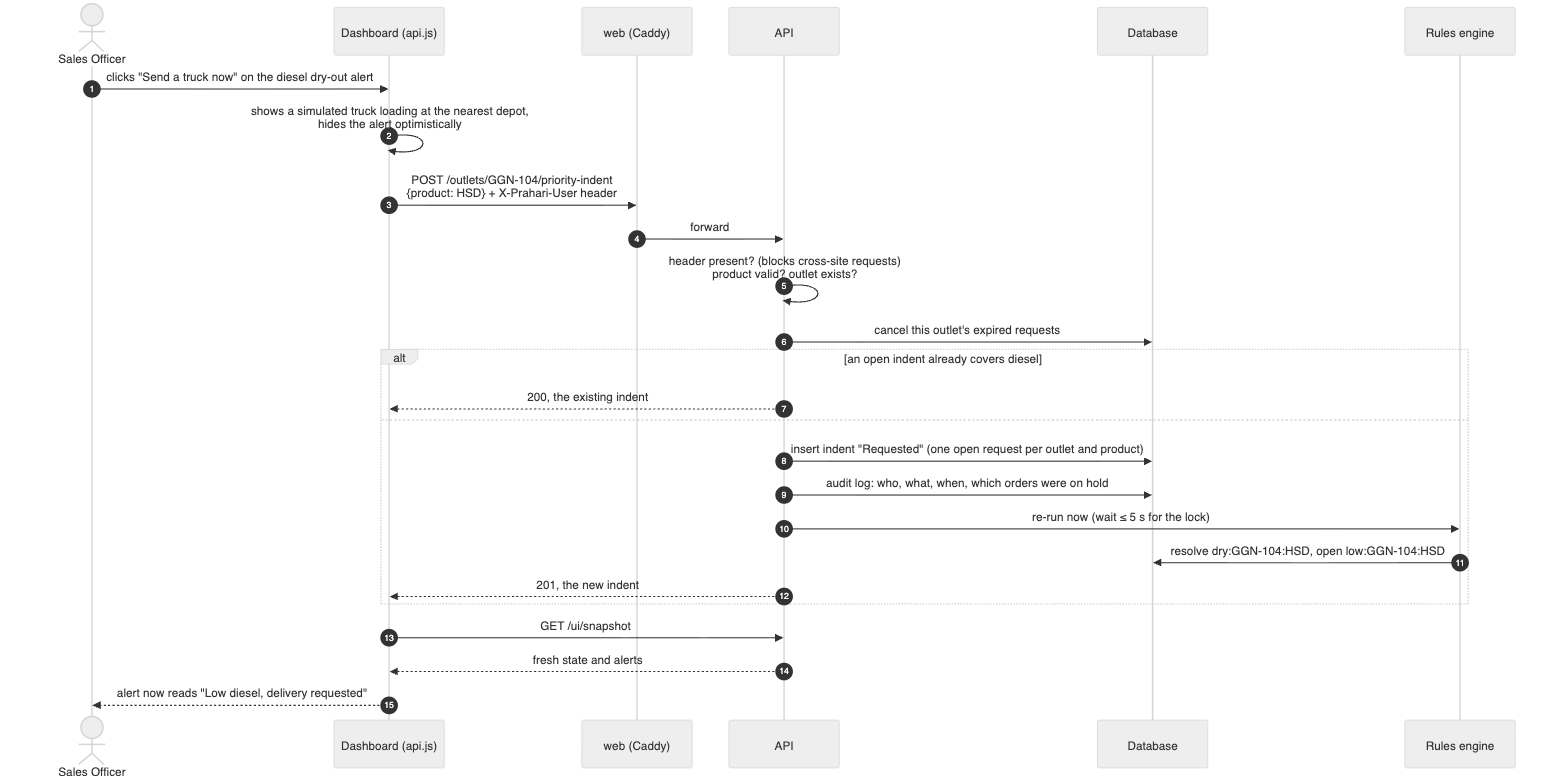
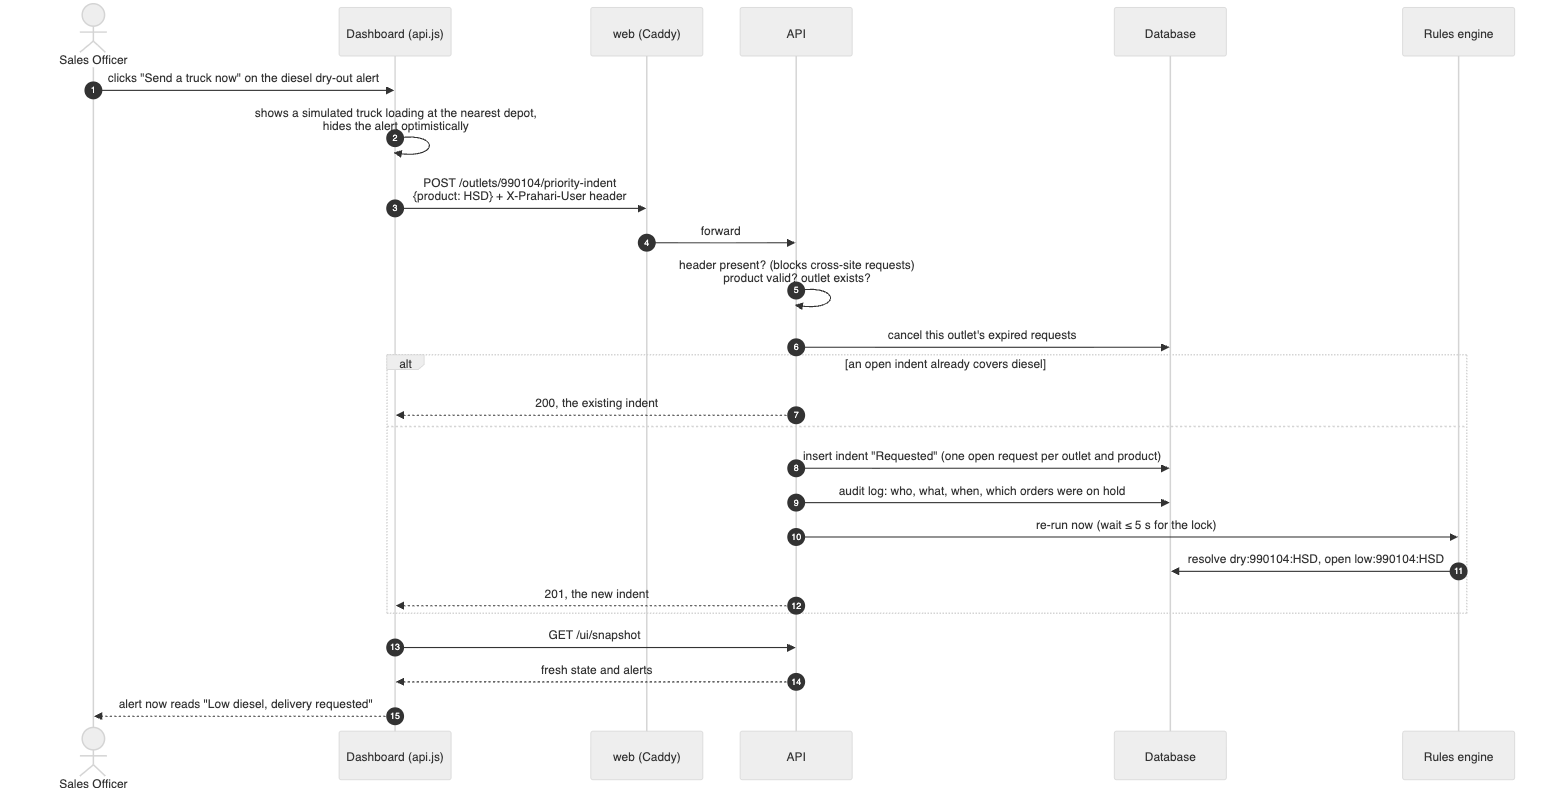
docs: RO codes, class of market and the RSA hierarchy
Vocabulary table in the backend README, a convention in CLAUDE.md, demo
links and storylines use RO codes, and the data-model and send-a-truck
diagrams are re-rendered.

diff --git a/backend/README.md b/backend/README.md
@@ -89,7 +89,19 @@ milestone.
 | `prahari.api` | FastAPI app, routers, response models |
 | `prahari.samples.generator` | Consistent synthetic month of source files |
 | `prahari.feed` | Demo automation feed (talks to the API over HTTP only) |
-| `prahari.domain` | Pure logic: tank calibration, business days, products |
+| `prahari.domain` | Pure logic: tank calibration, business days, products, RO codes and class of market |
+
+### Vocabulary (as in the oil companies' own systems)
+
+| Term | Meaning in Prahari |
+| --- | --- |
+| **RO code** | Every outlet's 6-digit code, the key in every file and in the API (`/outlets/990104`). A SAP customer code can be stored too, but nothing matches on it |
+| **State Office → Divisional Office → Retail Sales Area (RSA)** | The sales hierarchy. A Sales Officer looks after one RSA; Prahari's "sales area" is an RSA. "SO" means State Office, so the Sales Officer role is always written in full |
+| **Class of market** | A-Urban, B-Urban, C-Urban, D1-Highway, D2-Highway, E-Rural (any spelling such as `d1 highway` is accepted). Highway/Urban/Rural is derived from it |
+| **Products** | Brand-neutral codes: MS, HSD, XP (premium 95), P100, PD (premium diesel), E85, E100, CNG and CBG (sold by kg). Oil-company labels such as `MS-R`, `XP95`, `XP100` and `XG` are accepted in imports and mapped to these |
+
+The demo's RO codes are in the **9901xx** range, kept apart from real outlet codes so a synthetic
+alert can never point at a real outlet.
 
 ### The sample data
 
@@ -97,8 +109,8 @@ milestone.
 
 | File | Contents |
 | --- | --- |
-| `00_master/SALES_AREA.json` | Sales area, boundary, depots, products |
-| `00_master/RO_MASTER.xlsx` | Outlets (SAP customer code, category, location, dealer) |
+| `00_master/SALES_AREA.json` | Retail Sales Area (with its Divisional and State Office), boundary, depots, products (unit L or kg) |
+| `00_master/RO_MASTER.xlsx` | Outlets: 6-digit RO code, optional SAP code, class of market, location, dealer |
 | `00_master/TANK_MASTER.xlsx` | Tanks with dimensions for dip calibration |
 | `00_master/NOZZLE_MASTER.csv` | Dispensing units and nozzles |
 | `01_compliance/LICENCE_REGISTER.csv` | PESO, stamping, fire NOC, pollution consent with expiry dates |
@@ -115,12 +127,12 @@ in `src/prahari/ingest/formats.py`; when real exports are available, adapt them 
 
 | Outlet | What the backend finds |
 | --- | --- |
-| GGN-104 Royal Service Station | Diesel about to run out, order on payment hold → **critical**. "Send a truck now" raises a priority indent and it drops to low |
-| GGN-109 Krishna Filling Station | Last diesel delivery +4.2 kg/m³ against the invoice → **high**. "Hold tank" holds every tank it went into |
-| GGN-121 Cyber Fuel Centre | Book-vs-physical stock variation above 0.5% over 3 days |
-| GGN-131 / GGN-118 | PESO licence / stamping due within 10 days |
-| GGN-114 Gurukul Fuels | Low petrol, but a truck is dispatched → low |
-| GGN-127 Gurukul Auto Fuels | Automation sends nothing → "automation offline" once the feed is running |
+| 990104 Royal Service Station | Diesel about to run out, order on payment hold → **critical**. "Send a truck now" raises a priority indent and it drops to low |
+| 990109 Krishna Filling Station | Last diesel delivery +4.2 kg/m³ against the invoice → **high**. "Hold tank" holds every tank it went into |
+| 990121 Cyber Fuel Centre | Book-vs-physical stock variation above 0.5% over 3 days |
+| 990131 / 990118 | PESO licence / stamping due within 10 days |
+| 990114 Gurukul Fuels | Low petrol, but a truck is dispatched → low |
+| 990127 Gurukul Auto Fuels | Automation sends nothing → "automation offline" once the feed is running |
 
 ---
 

diff --git a/docs/architecture/system-diagrams.md b/docs/architecture/system-diagrams.md
@@ -239,7 +239,7 @@ flowchart TB
 
 Every file is checked row by row; good rows load, bad rows are reported with the reason, and
 nothing is duplicated if the same data arrives twice. Examples of checks: a meter reading lower
-than yesterday's, net sales that don't add up, a dip deeper than the tank, a SAP code not in the
+than yesterday's, net sales that don't add up, a dip deeper than the tank, an RO code not in the
 outlet master. Water at the bottom of a tank is subtracted from the dip, because it isn't fuel.
 
 **Import order** (masters first, because later files refer to them):
@@ -351,7 +351,7 @@ stateDiagram-v2
     Resolved --> [*]: kept as history
 ```
 
-Every condition has a stable key, for example `dry:GGN-104:HSD` (diesel at outlet GGN-104), so
+Every condition has a stable key, for example `dry:990104:HSD` (diesel at outlet 990104), so
 the same problem never opens twice. When data is missing (the morning dip not in yet, the feed
 down) an alert is **kept**, not closed, so it doesn't flap and lose its acknowledgement. Runs
 are serialised with a database lock: the scheduler skips a tick if busy; a run caused by a
@@ -399,7 +399,7 @@ sequenceDiagram
 
     SO->>UI: clicks "Send a truck now" on the diesel dry-out alert
     UI->>UI: shows a simulated truck loading at the nearest depot,<br/>hides the alert optimistically
-    UI->>Web: POST /outlets/GGN-104/priority-indent<br/>{product: HSD} + X-Prahari-User header
+    UI->>Web: POST /outlets/990104/priority-indent<br/>{product: HSD} + X-Prahari-User header
     Web->>API: forward
     API->>API: header present? (blocks cross-site requests)<br/>product valid? outlet exists?
     API->>DB: cancel this outlet's expired requests
@@ -409,7 +409,7 @@ sequenceDiagram
         API->>DB: insert indent "Requested" (one open request per outlet and product)
         API->>DB: audit log: who, what, when, which orders were on hold
         API->>Rules: re-run now (wait ≤ 5 s for the lock)
-        Rules->>DB: resolve dry:GGN-104:HSD, open low:GGN-104:HSD
+        Rules->>DB: resolve dry:990104:HSD, open low:990104:HSD
         API-->>UI: 201, the new indent
     end
     UI->>API: GET /ui/snapshot
@@ -496,9 +496,9 @@ erDiagram
     NOZZLE ||--o{ NOZZLE_DAILY_SALES : "daily sales report"
 
     OUTLET {
-        string code "GGN-104"
-        string sap_code "oil company's customer code"
-        string category "Highway, Urban, Rural"
+        string code "RO code, 6 digits (990104)"
+        string sap_code "SAP sold-to code, optional"
+        string market_class "class of market (D1-Highway)"
         bool is_automated
     }
     TANK {
@@ -535,7 +535,7 @@ erDiagram
         string source "import or prahari"
     }
     ALERT {
-        string key "dry:GGN-104:HSD"
+        string key "dry:990104:HSD"
         string severity
         string status "open, acknowledged, resolved"
     }

diff --git a/CLAUDE.md b/CLAUDE.md
@@ -48,6 +48,10 @@ make logs        # follow the stack's logs
 - **Time**: always timezone-aware datetimes; business days run from the morning dip (06:00 IST by
   default), see `prahari.domain.time`. Never use naive `datetime.now()`.
 - **Units**: litres (`_l`) and kilolitres (`_kl`) are suffixed in names; mm for dips; kg/m³ for density.
+- **Vocabulary**: outlets are keyed by their 6-digit **RO code** (demo codes are 9901xx; never use
+  real ones). Hierarchy is State Office → Divisional Office → Retail Sales Area; write "Sales
+  Officer" in full ("SO" means State Office). Class of market: A/B/C-Urban, D1/D2-Highway, E-Rural.
+  Product codes stay brand-neutral; oil-company labels (XP95, XG …) are import aliases only.
 - **Data in**: every source goes through a validating importer or a typed payload; imports are
   idempotent upserts on natural keys and recorded as `ImportJob`s with per-row errors.
 - **Database changes**: change the models, then `uv run alembic -c src/prahari/alembic.ini revision

diff --git a/README.md b/README.md
@@ -91,7 +91,7 @@ On macOS you can instead double-click [`poc/start.command`](poc/start.command). 
 
 | Link | Opens |
 | --- | --- |
-| `/#outlet=GGN-104` | An outlet directly. Add `&tab=sales`, `supply`, `cameras`, `compliance` or `dealer` |
+| `/#outlet=990104` | An outlet directly. Add `&tab=sales`, `supply`, `cameras`, `compliance` or `dealer` |
 | `/#view=surveillance` | A view: `ops`, `outlets`, `logistics`, `surveillance`, `compliance`, `analytics`, `copilot` |
 | `/#base=sat` | Start in satellite view (combine with others, e.g. `/#view=ops&base=sat`) |
 

diff --git a/poc/README.md b/poc/README.md
@@ -44,7 +44,7 @@ An internet connection is needed for the map and satellite images and the fonts.
 
 ## Deep links (handy for demos)
 
-- `http://localhost:8080/#outlet=GGN-104`: open an outlet directly (add `&tab=cameras|sales|supply|compliance|dealer`)
+- `http://localhost:8080/#outlet=990104`: open an outlet directly (add `&tab=cameras|sales|supply|compliance|dealer`)
 - `http://localhost:8080/#view=surveillance`: open a view (`outlets`, `logistics`, `surveillance`, `compliance`, `analytics`, `copilot`)
 
 ## Code layout
